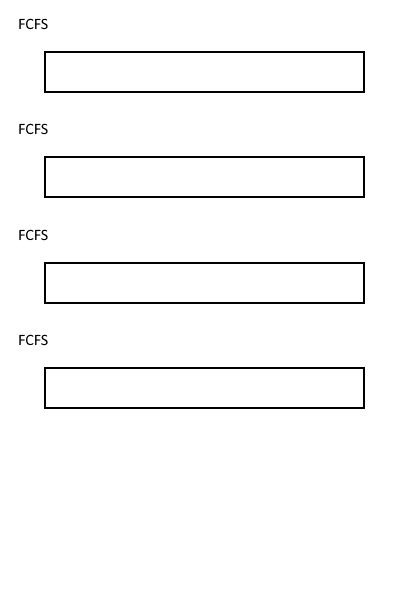
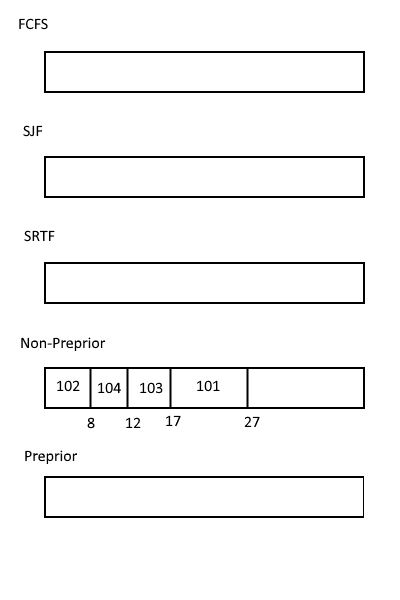
fixed up sjf/srtf/rr to handle no processes

diff --git a/Main.java b/Main.java
@@ -191,30 +191,38 @@ public class Main{
 		
 		//simulate
 		int time = 0;
+		int numProcess = inQueue.size()-1;
+		int completeProcess = 0;
 		
-		Process currentProcess = sched.poll();
-		
-		while(currentProcess.getRemaining()>0) {
-
-			//print
-			System.out.println("Time: "+time+ ", process "+ currentProcess.getpid()+" running");
-			//increment all other processes waiting times
-			for(Process entry: sched){
-				entry.incrementWaiting();
+		while(numProcess>=completeProcess) {
+			//no process ready
+			if(sched.isEmpty()){
+				System.out.println("Time: "+time+ ", No process running");
 			}
-			currentProcess.incrementWaiting();
+			//processes ready
+			else{
+				Process currentProcess = sched.poll();
+				currentProcess.setIsCurrentProcess(true);
+				//print
+				System.out.println("Time: "+time+ ", process "+ currentProcess.getpid()+" running");
+				//increment all other processes waiting times
+				for(Process entry: sched){
+					entry.incrementWaiting();
+				}
+				currentProcess.incrementWaiting();
 
-			if(currentProcess.getResponse() == -1){
-				currentProcess.setResponse(time - currentProcess.getArrival());
-			}
-			
-			//decrement remaining time and put back in queue so long as the process is not yet done running
-			currentProcess.setRemaining(currentProcess.getRemaining()-1);
+				if(currentProcess.getResponse() == -1){
+					currentProcess.setResponse(time - currentProcess.getArrival());
+				}
+				
+				//decrement remaining time and put back in queue so long as the process is not yet done running
+				currentProcess.setRemaining(currentProcess.getRemaining()-1);
 
-			// switch process?
-			if(currentProcess.getRemaining() <= 0){
-				// get new process
-				if(!sched.isEmpty()) currentProcess = sched.poll();
+				// handle process completion
+				if(currentProcess.getRemaining() <= 0){
+					completeProcess++;
+				}
+				else sched.add(currentProcess);
 			}
 			time++;
 			
@@ -234,8 +242,59 @@ public class Main{
 		System.out.println("RUNNING SRTF");
 		
 		PriorityQueue<Process> sched = new PriorityQueue<Process>(5, new CompareSRTF());
+		
 		//get all the processes into the queue
 		for(Process entry: inQueue){
+			if(entry.getArrival() == 0)	sched.add(entry);
+		}
+		
+		//simulate
+		int time = 0;
+		int numProcess = inQueue.size()-1;
+		int completeProcess = 0;
+		
+		while(numProcess>=completeProcess) {
+			//no process ready
+			if(sched.isEmpty()){
+				System.out.println("Time: "+time+ ", No process running");
+			}
+			//processes ready
+			else{
+				Process currentProcess = sched.poll();
+				currentProcess.setIsCurrentProcess(true);
+				//print
+				System.out.println("Time: "+time+ ", process "+ currentProcess.getpid()+" running");
+				//increment all other processes waiting times
+				for(Process entry: sched){
+					entry.incrementWaiting();
+				}
+
+				if(currentProcess.getResponse() == -1){
+					currentProcess.setResponse(time - currentProcess.getArrival());
+				}
+				
+				//decrement remaining time and put back in queue so long as the process is not yet done running
+				currentProcess.setRemaining(currentProcess.getRemaining()-1);
+
+				// handle process completion
+				if(currentProcess.getRemaining() <= 0){
+					completeProcess++;
+				}
+				else sched.add(currentProcess);
+			}
+			time++;
+			
+			// consider adding a new process
+			for(Process entry: inQueue){
+				if(entry.getArrival() == time){
+					sched.add(entry);
+				}
+			}
+		}
+		//analyze
+		analyze(inQueue);
+		//get all the processes into the queue
+		/*for(Process entry: inQueue){
 			if(entry.getArrival() == 0)	sched.add(entry);
 		}
 		//simulate
@@ -268,7 +327,7 @@ public class Main{
 			}
 		}
 		//analyze
-		analyze(inQueue);
+		analyze(inQueue);*/
 	}
 
 	/** Priority, non-preemptive */
@@ -276,7 +335,7 @@ public class Main{
 	public void nonpreprior(LinkedList<Process> inQueue){
 		System.out.println("RUNNING PRIORITY NON-PREEMPTIVE");
 		
-		PriorityQueue<Process> sched = new PriorityQueue<Process>(5, new ComparePriority());
+		PriorityQueue<Process> sched = new PriorityQueue<Process>(5, new ComparePriorityNonPre());
 		
 		//get all the initial processes into the queue
 		for(Process entry: inQueue){
@@ -296,11 +355,13 @@ public class Main{
 			//processes ready
 			else{
 				Process currentProcess = sched.poll();
+				currentProcess.setIsCurrentProcess(true);
 				//print
 				System.out.println("Time: "+time+ ", process "+ currentProcess.getpid()+" running");
 				//increment all other processes waiting times
 				for(Process entry: sched){
 					entry.incrementWaiting();
+					entry.setPriority(entry.getPriority()+1);
 				}
 
 				if(currentProcess.getResponse() == -1){
@@ -310,7 +371,7 @@ public class Main{
 				//decrement remaining time and put back in queue so long as the process is not yet done running
 				currentProcess.setRemaining(currentProcess.getRemaining()-1);
 
-				// switch process?
+				// handle process completion
 				if(currentProcess.getRemaining() <= 0){
 					completeProcess++;
 				}
@@ -359,6 +420,7 @@ public class Main{
 				//increment all other processes waiting times
 				for(Process entry: sched){
 					entry.incrementWaiting();
+					entry.setPriority(entry.getPriority()+1);
 				}
 
 				if(currentProcess.getResponse() == -1){
@@ -368,7 +430,7 @@ public class Main{
 				//decrement remaining time and put back in queue so long as the process is not yet done running
 				currentProcess.setRemaining(currentProcess.getRemaining()-1);
 
-				// switch process?
+				// handle process completion
 				if(currentProcess.getRemaining() <= 0){
 					completeProcess++;
 				}
@@ -405,43 +467,46 @@ public class Main{
 		
 		//simulate
 		int time = 0;
+		int numProcess = inQueue.size()-1;
+		int completeProcess = 0;
+		int q = 0;
 		
-		Process currentProcess = sched.poll();
-		int q = quantum;
-		
-		while(currentProcess.getRemaining()>0) {
-			// decrement towards next round
-			q--;
-
-			//print
-			System.out.println("Time: "+time+ ", process "+ currentProcess.getpid()+" running");
-			//increment all other processes waiting times
-			for(Process entry: sched){
-				entry.incrementWaiting();
+		while(numProcess>=completeProcess) {
+			//no process ready
+			if(sched.isEmpty()){
+				System.out.println("Time: "+time+ ", No process running");
 			}
-			currentProcess.incrementWaiting();
-
-			if(currentProcess.getResponse() == -1){
-				currentProcess.setResponse(time - currentProcess.getArrival());
-			}
-			
-			//decrement remaining time and put back in queue so long as the process is not yet done running
-			currentProcess.setRemaining(currentProcess.getRemaining()-1);
-
-			// switch process?
-			if(currentProcess.getRemaining() <= 0){
-				// get new process
-				if(!sched.isEmpty()) currentProcess = sched.poll();
-				q = quantum;
-			} else if (q <= 0) {
-				// switch the round robin
-				if(!sched.isEmpty()){
-					sched.add(currentProcess);
-					currentProcess = sched.poll();
-					q = quantum;
-				}  else {
-					q = quantum;
+			//processes ready
+			else{
+				Process currentProcess = sched.poll();
+				//print
+				System.out.println("Time: "+time+ ", process "+ currentProcess.getpid()+" running");
+				//increment all other processes waiting times
+				for(Process entry: sched){
+					entry.incrementWaiting();
 				}
+
+				if(currentProcess.getResponse() == -1){
+					currentProcess.setResponse(time - currentProcess.getArrival());
+				}
+				
+				//decrement remaining time and put back in queue so long as the process is not yet done running
+				currentProcess.setRemaining(currentProcess.getRemaining()-1);
+
+				q++;
+				// handle process completion
+				//process is done
+				if(currentProcess.getRemaining() <= 0){
+					completeProcess++;
+					q = 0;
+				}
+				//process is out of time
+				else if(q == quantum){
+					q = 0;
+					sched.add(currentProcess);
+				}
+				//process should run again
+				else sched.push(currentProcess);
 			}
 			time++;
 			

diff --git a/ComparePriorityNonPre.java b/ComparePriorityNonPre.java
@@ -6,6 +6,12 @@ class ComparePriorityNonPre implements Comparator<Process>{
   }
   
   public int compare (Process p1, Process p2){
-    return p1.getPriority() - p2.getPriority();
+	if(p1.getIsCurrentProcess()){
+		return -1;
+	}
+	else if(p2.getIsCurrentProcess()) {
+		return 1;
+	}
+    return p2.getPriority() - p1.getPriority();
   }
 }

diff --git a/CompareSJF.java b/CompareSJF.java
@@ -6,6 +6,12 @@ class CompareSJF implements Comparator<Process>{
   }
   
   public int compare (Process p1, Process p2){
+	 if(p1.getIsCurrentProcess()){
+		return -1;
+	}
+	else if(p2.getIsCurrentProcess()) {
+		return 1;
+	}
     return p1.getBurst() - p2.getBurst();
   }
 }
